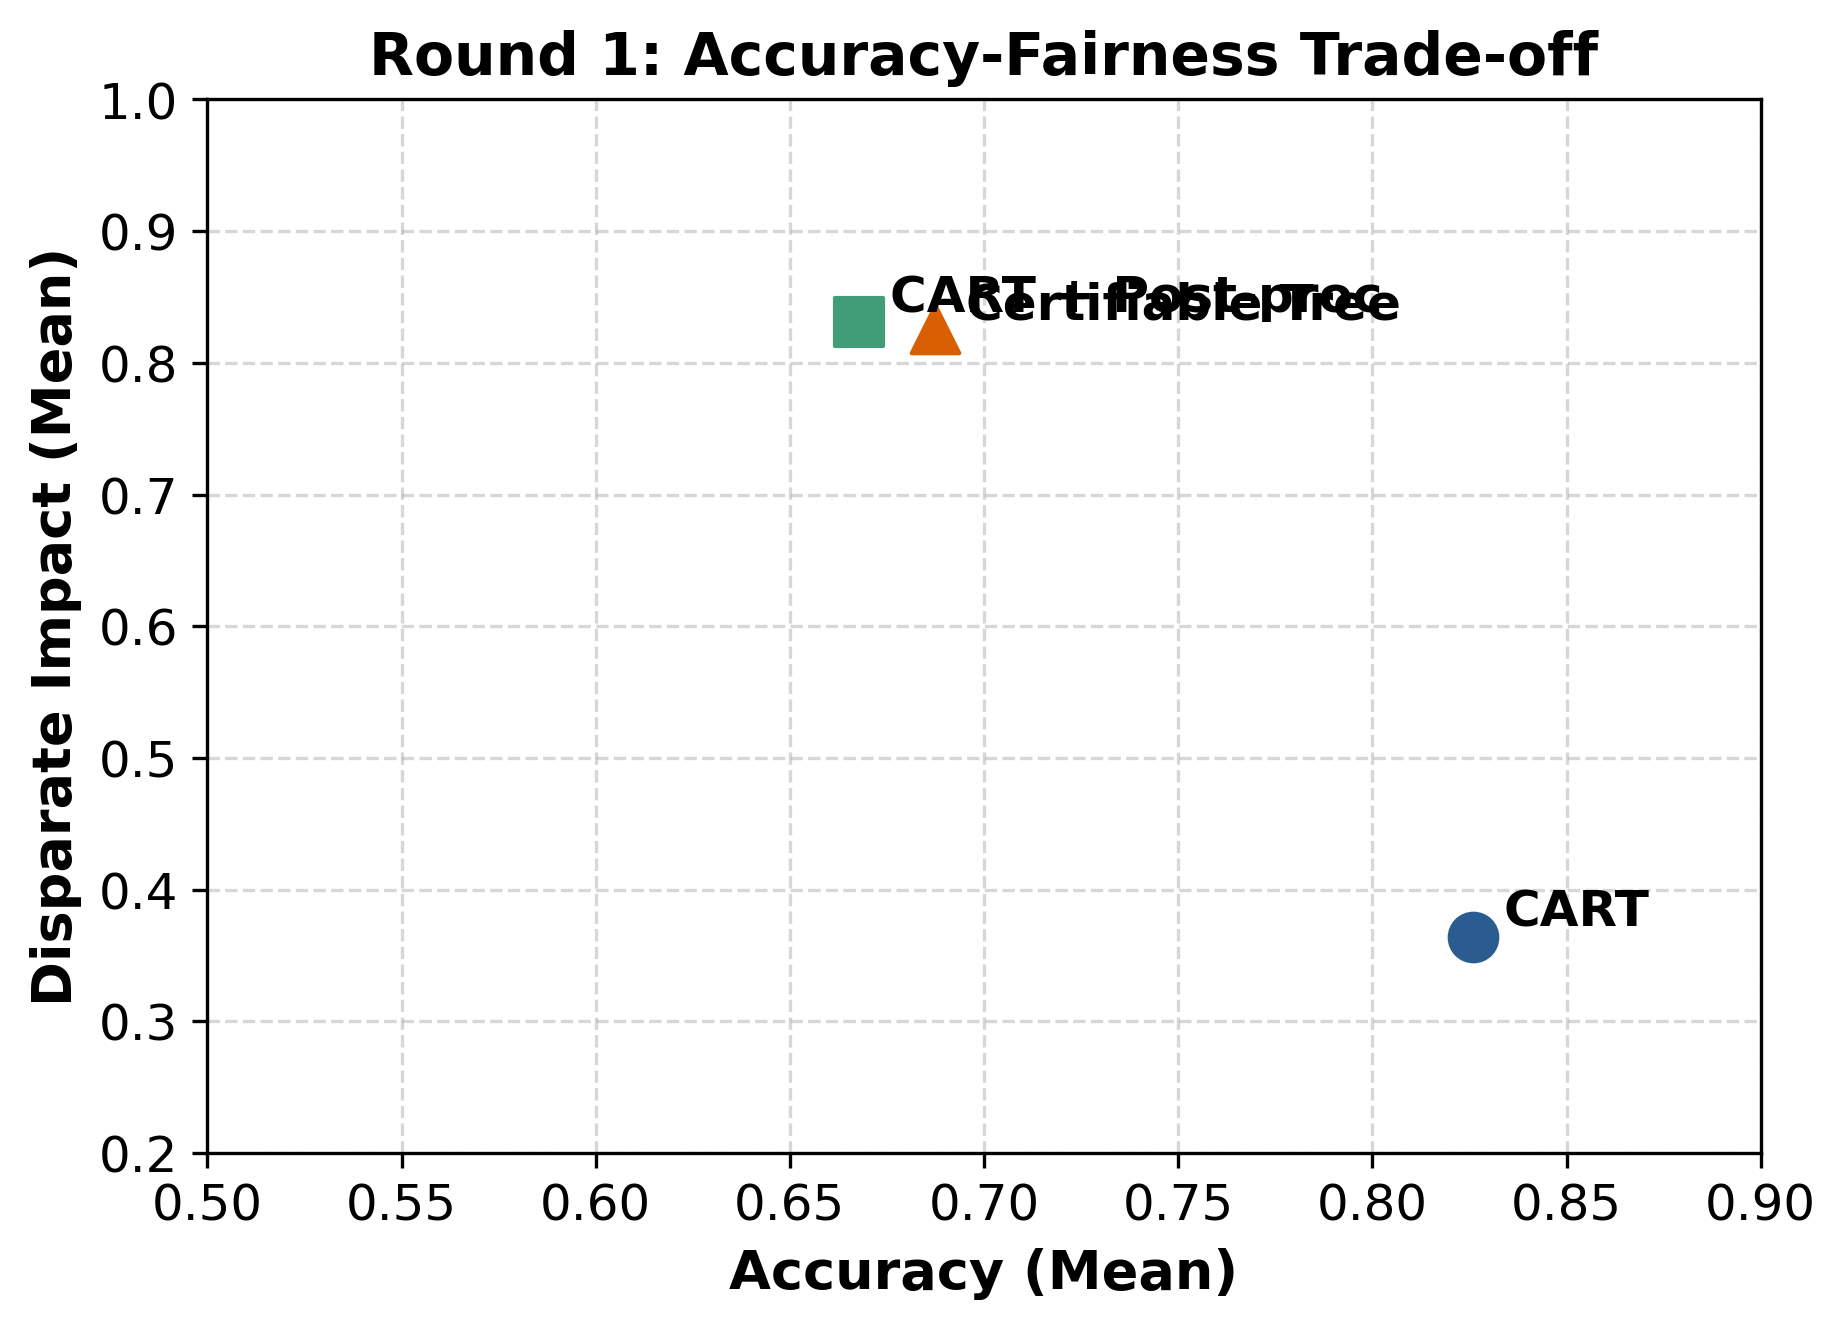
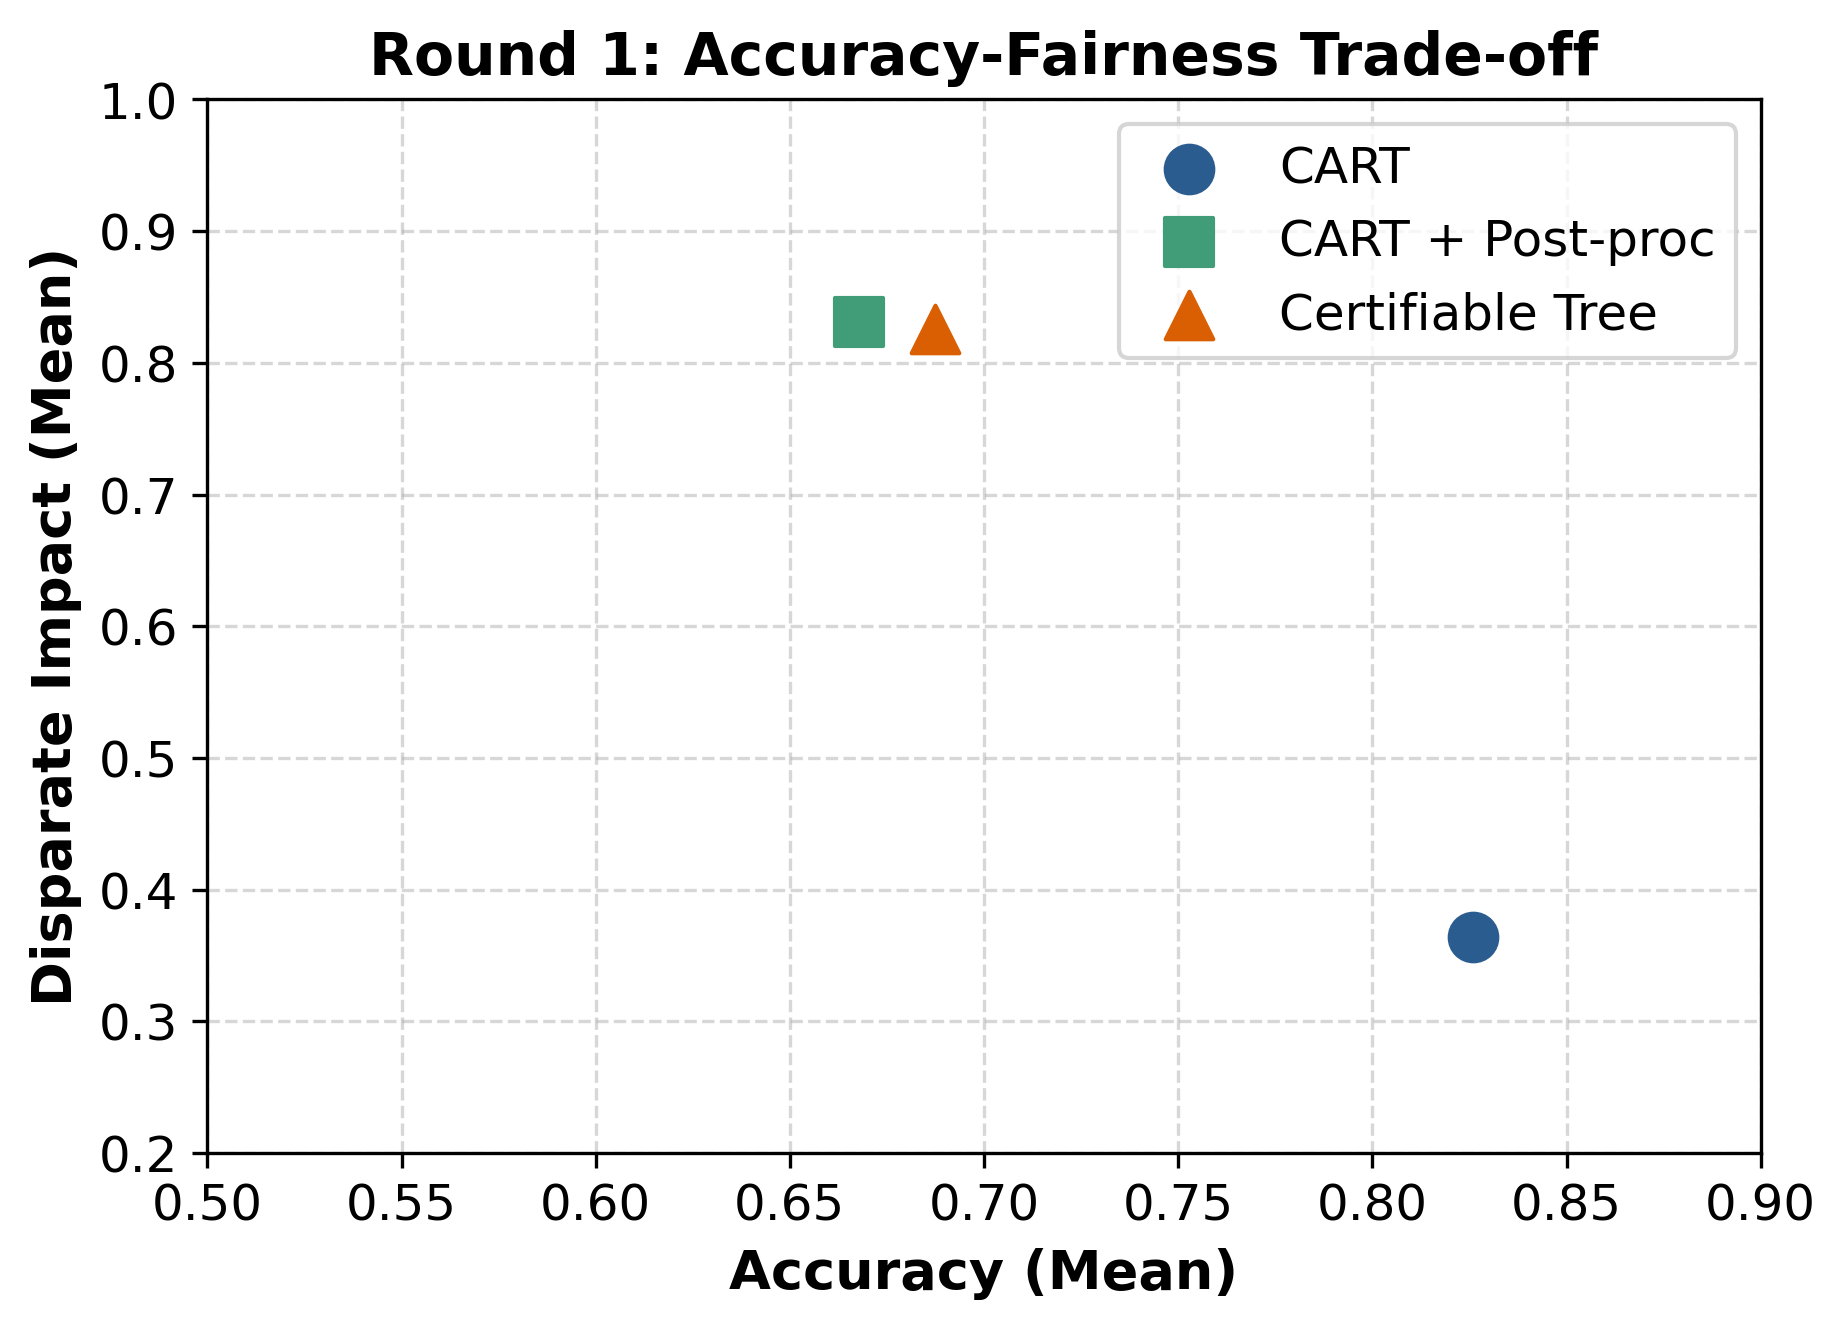
Replace overlapping text labels with clean legend in tradeoff scatter plot

Changed region(s): [[0.4632, 0.0926, 0.9263, 0.2777], [0.8028, 0.6479, 0.8954, 0.7096], [0.8337, 0.0926, 0.8646, 0.1234]]

diff --git a/experiment/run_fairness_workflow.py b/experiment/run_fairness_workflow.py
@@ -9,6 +9,22 @@ from pathlib import Path
 from typing import Any
 
 import matplotlib.pyplot as plt
+
+plt.rcParams.update({
+    'font.sans-serif': ['DejaVu Sans', 'Arial', 'Helvetica', 'sans-serif'],
+    'font.family': 'sans-serif',
+    'font.size': 13,
+    'axes.titlesize': 14,
+    'axes.titleweight': 'bold',
+    'axes.labelsize': 13,
+    'axes.labelweight': 'bold',
+    'xtick.labelsize': 12,
+    'ytick.labelsize': 12,
+    'legend.fontsize': 12,
+    'figure.titlesize': 15,
+    'lines.linewidth': 2.5,
+    'lines.markersize': 8,
+})
 import numpy as np
 import pandas as pd
 from sklearn.datasets import load_breast_cancer, load_diabetes, load_wine
@@ -596,31 +612,49 @@ def plot_round1(summary: pd.DataFrame, fig_dir: Path) -> None:
         .reset_index()
     )
 
-    fig, axes = plt.subplots(1, 2, figsize=(12, 4))
-    axes[0].bar(agg["method"], agg["accuracy"], color=["#3a7", "#5a9", "#c85"])
-    axes[0].set_title("Round1 Mean Accuracy")
-    axes[0].set_ylim(0.0, 1.0)
-    axes[0].tick_params(axis="x", rotation=20)
+    label_map = {
+        "cart": "CART",
+        "cart_group_threshold": "CART + Post-proc",
+        "cert_tree": "Certifiable Tree",
+    }
+    agg["display_name"] = agg["method"].map(lambda x: label_map.get(x, str(x)))
 
-    axes[1].bar(agg["method"], agg["fair_rate"], color=["#59a", "#4c8", "#d77"])
-    axes[1].set_title("Round1 Fairness Satisfaction Rate")
+    fig, axes = plt.subplots(1, 2, figsize=(11, 4.8))
+    axes[0].bar(agg["display_name"], agg["accuracy"], color=["#2b5c8f", "#419d78", "#d95f02"], width=0.55)
+    axes[0].set_title("Round 1: Mean Accuracy", fontsize=14, fontweight="bold")
+    axes[0].set_ylabel("Accuracy", fontsize=13, fontweight="bold")
+    axes[0].set_ylim(0.0, 1.0)
+    axes[0].tick_params(axis="x", labelsize=12)
+    axes[0].tick_params(axis="y", labelsize=12)
+    axes[0].grid(axis="y", linestyle="--", alpha=0.5)
+
+    axes[1].bar(agg["display_name"], agg["fair_rate"], color=["#2b5c8f", "#419d78", "#d95f02"], width=0.55)
+    axes[1].set_title("Round 1: Fairness Satisfaction Rate", fontsize=14, fontweight="bold")
+    axes[1].set_ylabel("Pass Rate", fontsize=13, fontweight="bold")
     axes[1].set_ylim(0.0, 1.0)
-    axes[1].tick_params(axis="x", rotation=20)
-    fig.tight_layout()
-    fig.savefig(fig_dir / "round1_accuracy_fairness.png", dpi=200)
+    axes[1].tick_params(axis="x", labelsize=12)
+    axes[1].tick_params(axis="y", labelsize=12)
+    axes[1].grid(axis="y", linestyle="--", alpha=0.5)
+
+    fig.tight_layout(pad=1.5)
+    fig.savefig(fig_dir / "round1_accuracy_fairness.png", dpi=300, bbox_inches="tight")
     plt.close(fig)
 
-    fig2, ax2 = plt.subplots(figsize=(6, 4))
-    ax2.scatter(agg["accuracy"], agg["di"], s=90)
-    for _, r in agg.iterrows():
-        ax2.text(r["accuracy"] + 0.002, r["di"] + 0.002, r["method"], fontsize=8)
-    ax2.set_xlabel("Accuracy (mean)")
-    ax2.set_ylabel("DI (mean)")
-    ax2.set_title("Round1 Accuracy-Fairness Tradeoff")
-    ax2.set_xlim(0.0, 1.0)
-    ax2.set_ylim(0.0, 1.0)
-    fig2.tight_layout()
-    fig2.savefig(fig_dir / "round1_tradeoff_scatter.png", dpi=200)
+    fig2, ax2 = plt.subplots(figsize=(6.5, 4.8))
+    colors = ["#2b5c8f", "#419d78", "#d95f02"]
+    markers = ["o", "s", "^"]
+    for i, (_, r) in enumerate(agg.iterrows()):
+        ax2.scatter(r["accuracy"], r["di"], s=130, color=colors[i % len(colors)], marker=markers[i % len(markers)], label=r["display_name"])
+    ax2.set_xlabel("Accuracy (Mean)", fontsize=13, fontweight="bold")
+    ax2.set_ylabel("Disparate Impact (Mean)", fontsize=13, fontweight="bold")
+    ax2.set_title("Round 1: Accuracy-Fairness Trade-off", fontsize=14, fontweight="bold")
+    ax2.set_xlim(0.50, 0.90)
+    ax2.set_ylim(0.20, 1.0)
+    ax2.tick_params(axis="both", labelsize=12)
+    ax2.legend(fontsize=12, frameon=True, loc="best")
+    ax2.grid(linestyle="--", alpha=0.5)
+    fig2.tight_layout(pad=1.5)
+    fig2.savefig(fig_dir / "round1_tradeoff_scatter.png", dpi=300, bbox_inches="tight")
     plt.close(fig2)
 
 
@@ -714,17 +748,21 @@ def run_scalability(exp_root: Path, fig_root: Path) -> dict[str, Any]:
     scale_df = pd.DataFrame(rows)
     scale_df.to_csv(out_dir / "scalability.csv", index=False)
 
-    fig, ax = plt.subplots(figsize=(7, 4))
-    for depth in [1, 2]:
+    fig, ax = plt.subplots(figsize=(6.8, 4.5))
+    colors = ["#2b5c8f", "#d95f02"]
+    markers = ["o", "s"]
+    for idx, depth in enumerate([1, 2]):
         sub = scale_df[scale_df["depth"] == depth]
         grp = sub.groupby("feature_count")["runtime_sec"].mean().reset_index()
-        ax.plot(grp["feature_count"], grp["runtime_sec"], marker="o", label=f"depth={depth}")
-    ax.set_xlabel("Feature count (k)")
-    ax.set_ylabel("Runtime (s)")
-    ax.set_title("Scalability: Runtime vs Feature Count")
-    ax.legend()
-    fig.tight_layout()
-    fig.savefig(fig_root / "round2_scalability_runtime.png", dpi=200)
+        ax.plot(grp["feature_count"], grp["runtime_sec"], marker=markers[idx], color=colors[idx], linewidth=2.5, markersize=8, label=f"Depth = {depth}")
+    ax.set_xlabel("Feature Count (k)", fontsize=13, fontweight="bold")
+    ax.set_ylabel("Runtime (seconds)", fontsize=13, fontweight="bold")
+    ax.set_title("Scalability: Runtime vs Feature Count", fontsize=14, fontweight="bold")
+    ax.tick_params(axis="both", labelsize=12)
+    ax.legend(fontsize=12, frameon=True)
+    ax.grid(linestyle="--", alpha=0.5)
+    fig.tight_layout(pad=1.5)
+    fig.savefig(fig_root / "round2_scalability_runtime.png", dpi=300, bbox_inches="tight")
     plt.close(fig)
 
     return {"path": str(out_dir / "scalability.csv"), "rows": int(len(scale_df))}
@@ -803,16 +841,31 @@ def run_ablation(exp_root: Path, fig_root: Path) -> dict[str, Any]:
     )
     ab_sum.to_csv(out_dir / "ablation_summary.csv", index=False)
 
-    fig, axes = plt.subplots(1, 2, figsize=(12, 4))
-    axes[0].bar(ab_sum["variant"], ab_sum["runtime_mean"], color=["#4b9", "#c96", "#69b", "#a66"])
-    axes[0].set_title("Ablation Runtime")
-    axes[0].tick_params(axis="x", rotation=20)
-    axes[1].bar(ab_sum["variant"], ab_sum["fair_rate"], color=["#4b9", "#c96", "#69b", "#a66"])
-    axes[1].set_title("Ablation Fair Rate")
+    ab_label_map = {
+        "full": "Full",
+        "no_cache": "No Cache",
+        "no_ordering": "No Ordering",
+    }
+    ab_sum["display_name"] = ab_sum["variant"].map(lambda x: ab_label_map.get(x, str(x)))
+
+    fig, axes = plt.subplots(1, 2, figsize=(11, 4.8))
+    axes[0].bar(ab_sum["display_name"], ab_sum["runtime_mean"], color=["#4b9b7d", "#e76f51", "#2a9d8f"], width=0.55)
+    axes[0].set_title("Ablation: Mean Runtime (s)", fontsize=14, fontweight="bold")
+    axes[0].set_ylabel("Runtime (seconds)", fontsize=13, fontweight="bold")
+    axes[0].tick_params(axis="x", labelsize=12)
+    axes[0].tick_params(axis="y", labelsize=12)
+    axes[0].grid(axis="y", linestyle="--", alpha=0.5)
+
+    axes[1].bar(ab_sum["display_name"], ab_sum["fair_rate"], color=["#4b9b7d", "#e76f51", "#2a9d8f"], width=0.55)
+    axes[1].set_title("Ablation: Fairness Pass Rate", fontsize=14, fontweight="bold")
+    axes[1].set_ylabel("Pass Rate", fontsize=13, fontweight="bold")
     axes[1].set_ylim(0.0, 1.0)
-    axes[1].tick_params(axis="x", rotation=20)
-    fig.tight_layout()
-    fig.savefig(fig_root / "round2_ablation.png", dpi=200)
+    axes[1].tick_params(axis="x", labelsize=12)
+    axes[1].tick_params(axis="y", labelsize=12)
+    axes[1].grid(axis="y", linestyle="--", alpha=0.5)
+
+    fig.tight_layout(pad=1.5)
+    fig.savefig(fig_root / "round2_ablation.png", dpi=300, bbox_inches="tight")
     plt.close(fig)
 
     return {"path": str(out_dir / "ablation.csv"), "rows": int(len(ab_df))}
@@ -902,20 +955,39 @@ def run_stability(exp_root: Path, fig_root: Path) -> dict[str, Any]:
     st_df = pd.DataFrame(rows)
     st_df.to_csv(out_dir / "stability.csv", index=False)
 
-    fig, axes = plt.subplots(1, 2, figsize=(12, 4))
+    fig, axes = plt.subplots(1, 2, figsize=(11, 4.8))
     methods = ["cart", "cart_group_threshold", "cert_tree"]
+    display_methods = ["CART", "CART + Post-proc", "Certifiable Tree"]
     acc_data = [st_df[st_df["method"] == m]["accuracy"].dropna().values for m in methods]
     di_data = [st_df[st_df["method"] == m]["di"].dropna().values for m in methods]
-    axes[0].boxplot(acc_data, tick_labels=methods, showfliers=False)
+
+    bp0 = axes[0].boxplot(acc_data, tick_labels=display_methods, patch_artist=True, showfliers=False)
+    colors = ["#2b5c8f", "#419d78", "#d95f02"]
+    for patch, color in zip(bp0['boxes'], colors):
+        patch.set_facecolor(color)
+        patch.set_alpha(0.7)
+
     axes[0].set_ylim(0.0, 1.0)
-    axes[0].set_title("Stability: Accuracy Distribution")
-    axes[1].boxplot(di_data, tick_labels=methods, showfliers=False)
+    axes[0].set_title("Stability: Accuracy Distribution", fontsize=14, fontweight="bold")
+    axes[0].set_ylabel("Accuracy", fontsize=13, fontweight="bold")
+    axes[0].tick_params(axis="x", labelsize=12)
+    axes[0].tick_params(axis="y", labelsize=12)
+    axes[0].grid(axis="y", linestyle="--", alpha=0.5)
+
+    bp1 = axes[1].boxplot(di_data, tick_labels=display_methods, patch_artist=True, showfliers=False)
+    for patch, color in zip(bp1['boxes'], colors):
+        patch.set_facecolor(color)
+        patch.set_alpha(0.7)
+
     axes[1].set_ylim(0.0, 1.0)
-    axes[1].set_title("Stability: DI Distribution")
-    for ax in axes:
-        ax.tick_params(axis="x", rotation=20)
-    fig.tight_layout()
-    fig.savefig(fig_root / "round2_stability_boxplot.png", dpi=200)
+    axes[1].set_title("Stability: DI Distribution", fontsize=14, fontweight="bold")
+    axes[1].set_ylabel("Disparate Impact (DI)", fontsize=13, fontweight="bold")
+    axes[1].tick_params(axis="x", labelsize=12)
+    axes[1].tick_params(axis="y", labelsize=12)
+    axes[1].grid(axis="y", linestyle="--", alpha=0.5)
+
+    fig.tight_layout(pad=1.5)
+    fig.savefig(fig_root / "round2_stability_boxplot.png", dpi=300, bbox_inches="tight")
     plt.close(fig)
 
     return {"path": str(out_dir / "stability.csv"), "rows": int(len(st_df))}
@@ -1112,22 +1184,36 @@ def run_noise_robustness(exp_root: Path, fig_root: Path) -> dict[str, Any]:
     df = pd.DataFrame(rows)
     df.to_csv(out_dir / "noise_robustness.csv", index=False)
 
-    fig, axes = plt.subplots(1, 2, figsize=(12, 4))
-    for method in ["cart", "cart_group_threshold", "cert_tree"]:
-        sub = df[df["method"] == method]
+    fig, axes = plt.subplots(1, 2, figsize=(11, 4.8))
+    method_info = [
+        ("cart", "CART", "#2b5c8f", "o"),
+        ("cart_group_threshold", "CART + Post-proc", "#419d78", "s"),
+        ("cert_tree", "Certifiable Tree", "#d95f02", "^"),
+    ]
+    for key, disp_name, color, marker in method_info:
+        sub = df[df["method"] == key]
         grp = sub.groupby("sigma")[["accuracy", "di"]].mean().reset_index()
-        axes[0].plot(grp["sigma"], grp["accuracy"], marker="o", label=method)
-        axes[1].plot(grp["sigma"], grp["di"], marker="o", label=method)
-    axes[0].set_ylim(0.0, 1.0)
-    axes[0].set_title("Noise Robustness: Accuracy")
-    axes[0].set_xlabel("Gaussian noise sigma")
+        axes[0].plot(grp["sigma"], grp["accuracy"], marker=marker, color=color, linewidth=2.5, markersize=8, label=disp_name)
+        axes[1].plot(grp["sigma"], grp["di"], marker=marker, color=color, linewidth=2.5, markersize=8, label=disp_name)
+
+    axes[0].set_ylim(0.4, 1.0)
+    axes[0].set_title("Noise Robustness: Accuracy", fontsize=14, fontweight="bold")
+    axes[0].set_xlabel(r"Gaussian Noise ($\sigma$)", fontsize=13, fontweight="bold")
+    axes[0].set_ylabel("Accuracy", fontsize=13, fontweight="bold")
+    axes[0].tick_params(axis="both", labelsize=12)
+    axes[0].legend(fontsize=11.5, frameon=True)
+    axes[0].grid(linestyle="--", alpha=0.5)
+
     axes[1].set_ylim(0.0, 1.0)
-    axes[1].set_title("Noise Robustness: DI")
-    axes[1].set_xlabel("Gaussian noise sigma")
-    axes[0].legend()
-    axes[1].legend()
-    fig.tight_layout()
-    fig.savefig(fig_root / "round3_noise_robustness.png", dpi=200)
+    axes[1].set_title("Noise Robustness: Disparate Impact", fontsize=14, fontweight="bold")
+    axes[1].set_xlabel(r"Gaussian Noise ($\sigma$)", fontsize=13, fontweight="bold")
+    axes[1].set_ylabel("Disparate Impact (DI)", fontsize=13, fontweight="bold")
+    axes[1].tick_params(axis="both", labelsize=12)
+    axes[1].legend(fontsize=11.5, frameon=True)
+    axes[1].grid(linestyle="--", alpha=0.5)
+
+    fig.tight_layout(pad=1.5)
+    fig.savefig(fig_root / "round3_noise_robustness.png", dpi=300, bbox_inches="tight")
     plt.close(fig)
 
     return {"path": str(out_dir / "noise_robustness.csv"), "rows": int(len(df))}
